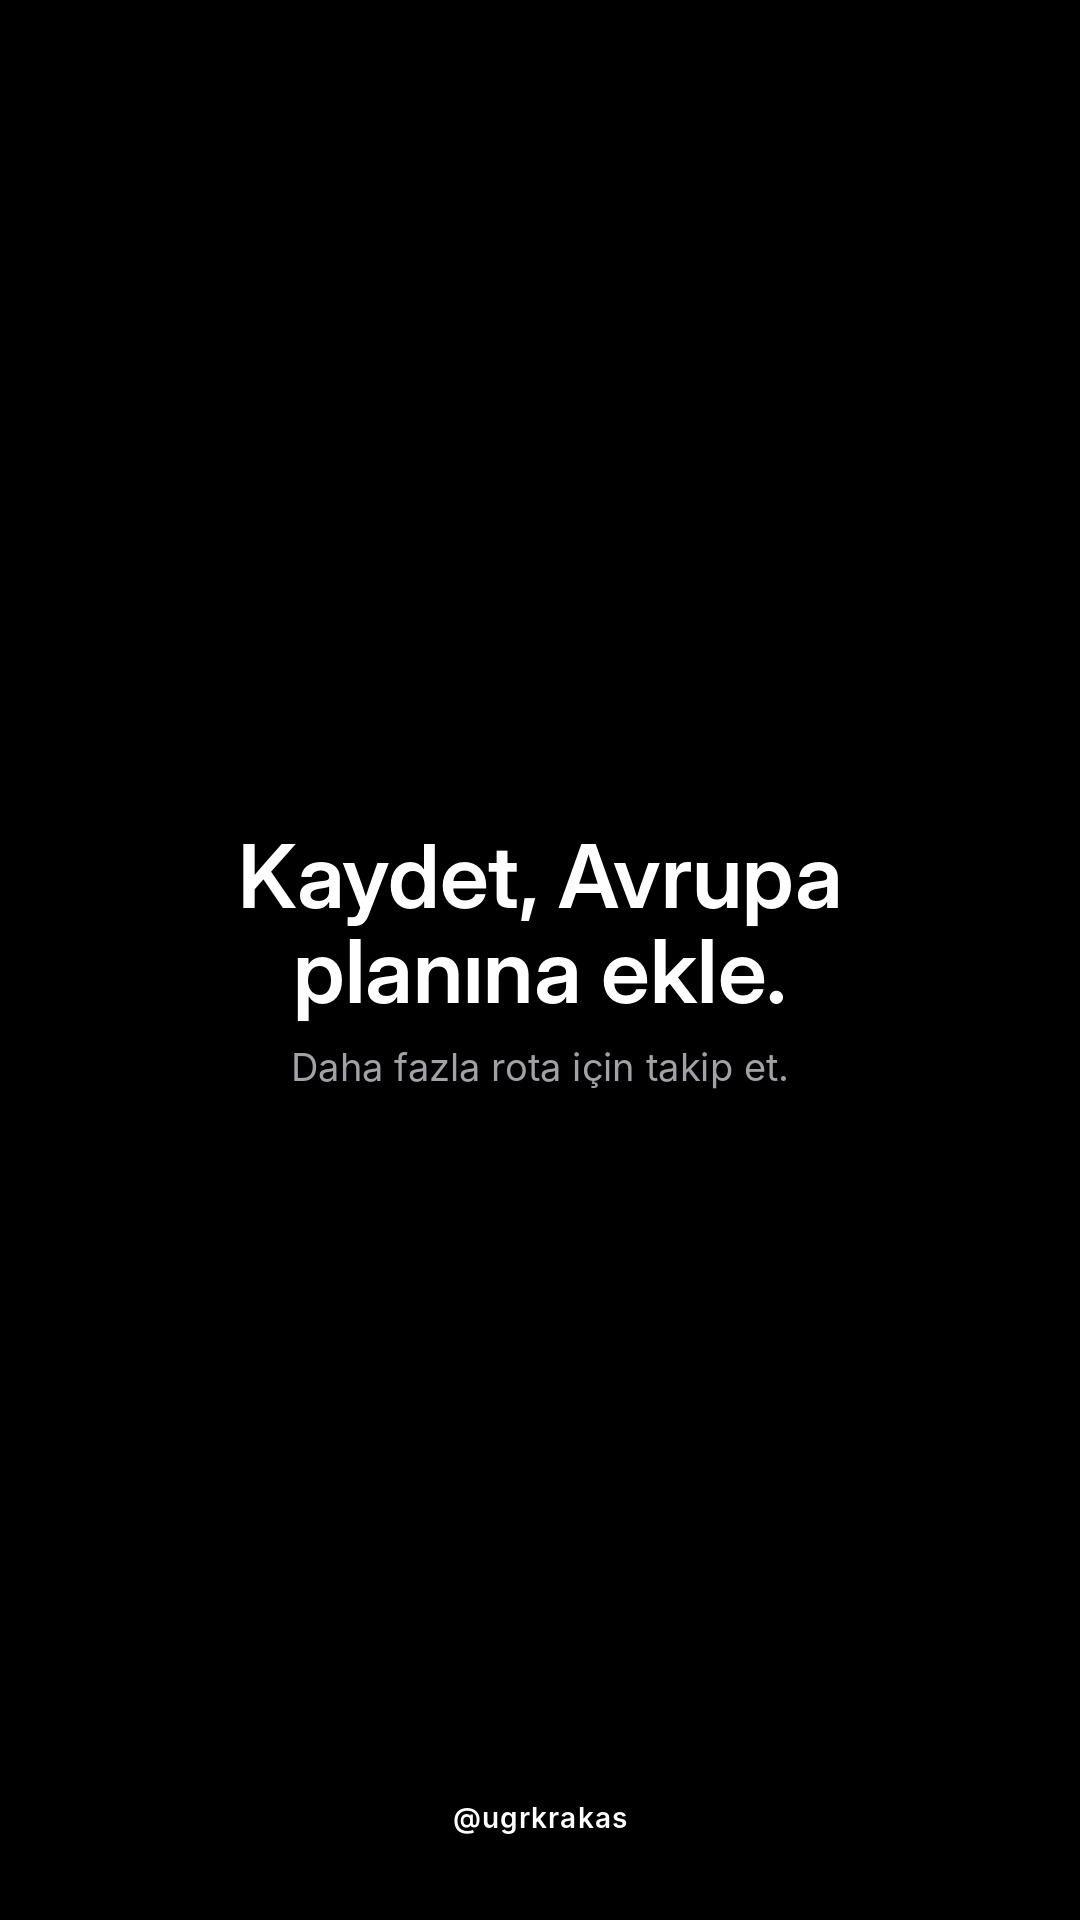
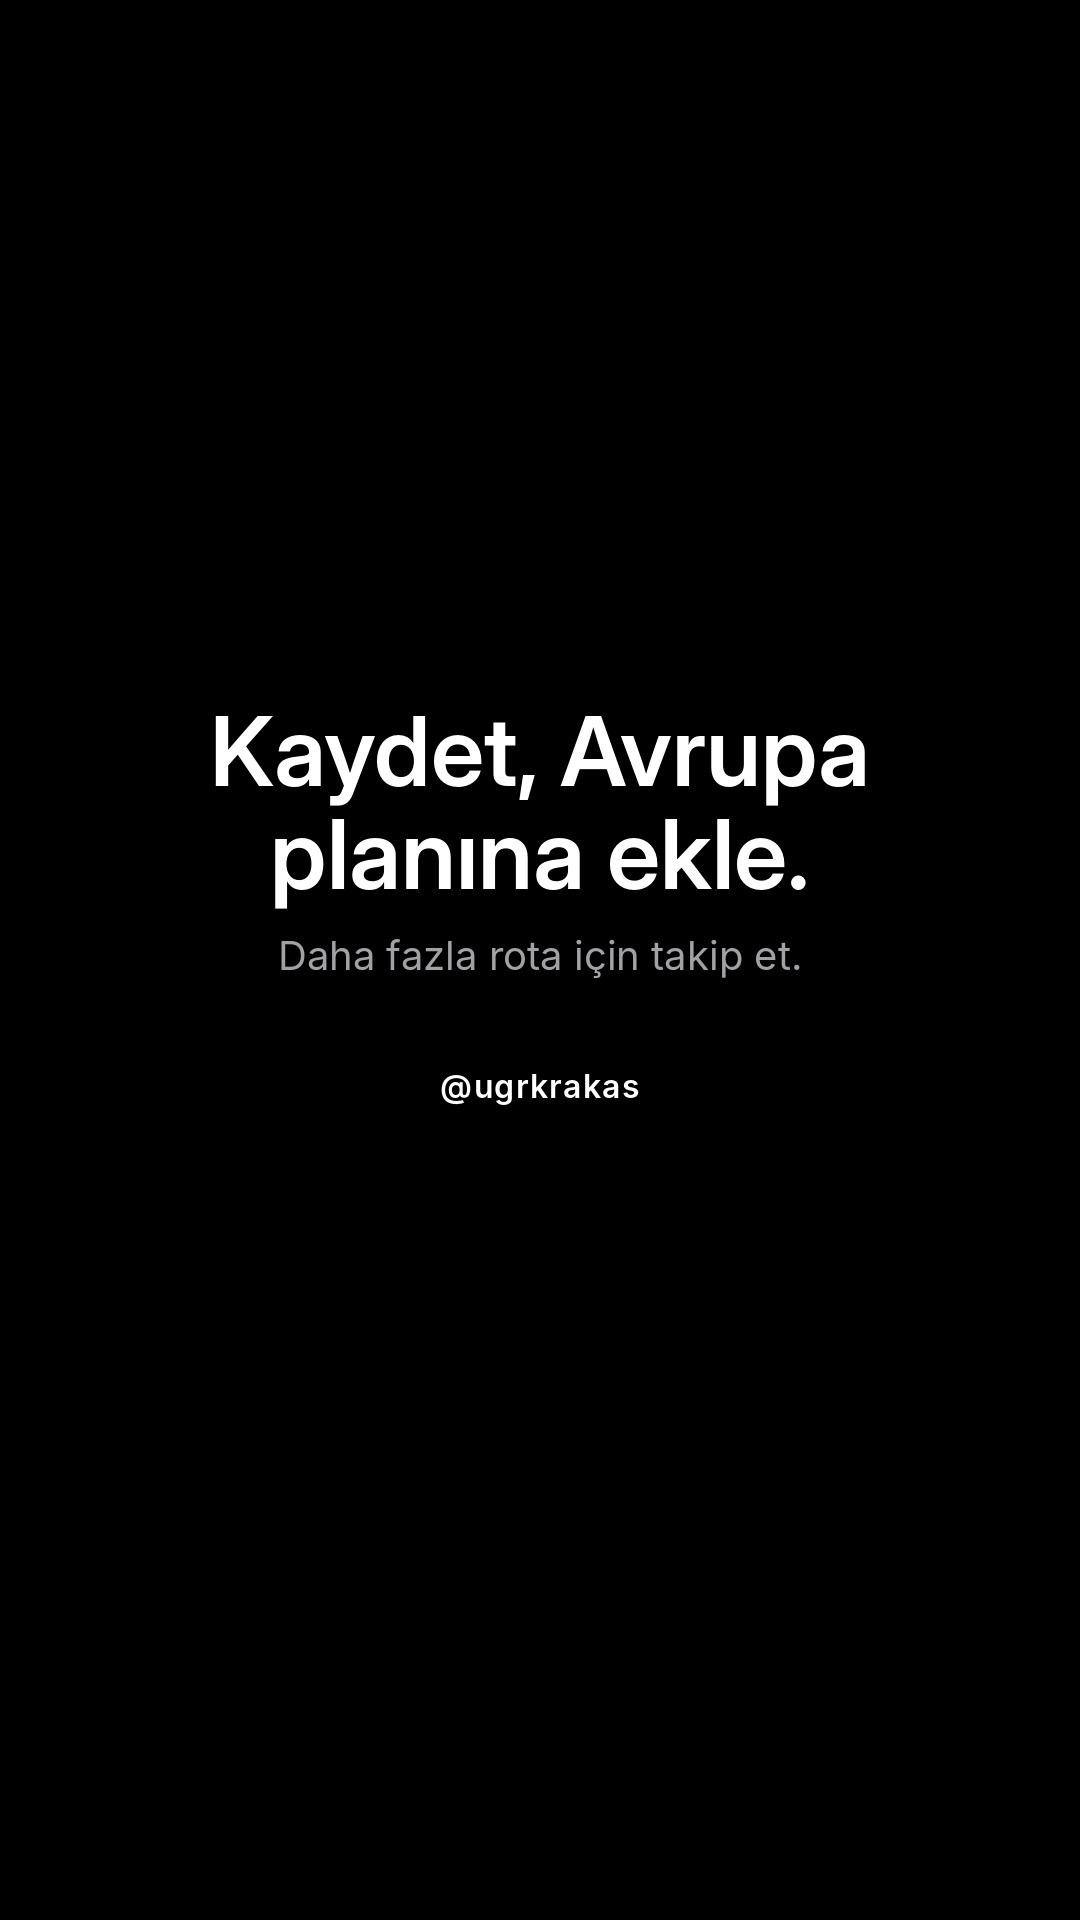
Dikey slaytlar: fotoğraf alanı sabit, altına detay kartı (nerede/ne zaman/ipucu)
Claude-Session: https://claude.ai/code/session_01Vt7T2UibBZwA7LmH7N9LPv

Changed region(s): [[0.1833, 0.375, 0.825, 0.5938], [0.4278, 0.9375, 0.5806, 0.9688]]

diff --git a/araclar/dikey_carousel.py b/araclar/dikey_carousel.py
@@ -1,5 +1,9 @@
 #!/usr/bin/env python3
-"""Carousel slaytlarını 9:16 (1080x1920) üretir: uygulamadan fotoğraflı reels olarak paylaşmak için.
+"""Carousel slaytlarının 9:16 (1080x1920) hali: uygulamadan fotoğraflı reels olarak paylaşmak için.
+
+Dikey ekranda fotoğraflar aşırı uzamasın diye fotoğraf alanı sabit tutulur, altına
+"detay" maddeleri (nerede, ne zaman, ipucu) gelir. Alt ~350 px, Instagram'ın reels
+arayüzü (açıklama, düğmeler) için boş bırakılır.
 
   python3 araclar/dikey_carousel.py icerik/<slug>.json   ->  carousel-dikey/<slug>/01.jpg ...
 """
@@ -7,18 +11,111 @@ import json
 import sys
 from pathlib import Path
 
+from PIL import Image, ImageDraw
+
 sys.path.insert(0, str(Path(__file__).parent))
 import uret  # noqa: E402
+from uret import (BASLIK, BEYAZ, GOVDE, IKINCIL, KOK, METIN, ZEMIN, birlestir, blok_yuksekligi,  # noqa: E402
+                  doldur, font, karartma, ust_yazi, yaz, yuvarlak_yapistir)
 
-uret.POST = uret.STORY  # tüm slayt düzenleri boyutu POST sabitinden alıyor
+W, H = 1080, 1920
+KENAR = 84
+GEN = W - 2 * KENAR
+FOTO_H = 760
+ALT_BOS = 360  # reels arayüzü
+
+
+def _foto(ad, boyut):
+    if isinstance(ad, dict):
+        return doldur(KOK / "kaynak" / ad["foto"], boyut, tuple(ad.get("odak", (0.5, 0.5))))
+    return doldur(KOK / "kaynak" / ad, boyut)
+
+
+def kapak(veri):
+    img = karartma(doldur(KOK / "kaynak" / veri["foto"], (W, H), (0.5, 0.45)), ust=0.4, alt=0.75)
+    k = Image.new("RGBA", (W, H), (0, 0, 0, 0))
+    ust_yazi(k, W, KENAR, 140, veri.get("konum", ""), BEYAZ)
+    bf, af = font(BASLIK, 104), font(GOVDE, 40)
+    bh = blok_yuksekligi(veri["baslik"], bf, GEN, 1.08)
+    ah = blok_yuksekligi(veri.get("alt_baslik", ""), af, GEN, 1.35) if veri.get("alt_baslik") else 0
+    y = H - ALT_BOS - 40 - ah - 30 - bh
+    y = yaz(k, (KENAR, y), veri["baslik"], bf, BEYAZ, GEN, 1.08) + 30
+    if ah:
+        yaz(k, (KENAR, y), veri["alt_baslik"], af, BEYAZ, GEN, 1.35, seffaflik=215)
+    return birlestir(img, k)
+
+
+def detay_karti(k, img, y, maddeler):
+    """Beyaz yuvarlak kart içinde madde işaretli detaylar."""
+    f = font(GOVDE, 36)
+    satir_h = []
+    for m in maddeler:
+        satir_h.append(blok_yuksekligi(m, f, GEN - 120, 1.35))
+    ic = 48
+    kart_h = ic * 2 + sum(satir_h) + 26 * (len(maddeler) - 1)
+    ImageDraw.Draw(img).rounded_rectangle((KENAR, y, W - KENAR, y + kart_h), radius=36, fill=BEYAZ)
+    c = ImageDraw.Draw(k)
+    yy = y + ic
+    for m, sh in zip(maddeler, satir_h):
+        c.ellipse((KENAR + 48, yy + 17, KENAR + 60, yy + 29), fill=METIN + (255,))
+        yaz(k, (KENAR + 84, yy), m, f, METIN, GEN - 120, 1.35)
+        yy += sh + 26
+    return y + kart_h
+
+
+def icerik(slayt, sira, konum):
+    img = Image.new("RGB", (W, H), ZEMIN)
+    k = Image.new("RGBA", (W, H), (0, 0, 0, 0))
+    ust_yazi(k, W, KENAR, 140, f"{sira:02d}  ·  {konum}" if konum else f"{sira:02d}", IKINCIL, 255)
+    y = 230
+    y = yaz(k, (KENAR, y), slayt["baslik"], font(BASLIK, 72), METIN, GEN, 1.1) + 24
+    y = yaz(k, (KENAR, y), slayt["metin"], font(GOVDE, 36), IKINCIL, GEN, 1.42) + 44
+    fotolar = slayt.get("fotolar") or ([slayt["foto"]] if slayt.get("foto") else [])
+    fh = min(FOTO_H, H - ALT_BOS - y - (380 if slayt.get("detay") else 40))
+    ara = 16
+    if len(fotolar) >= 3:
+        sol = int((GEN - ara) * 0.6)
+        sag = GEN - ara - sol
+        kh = (fh - ara) // 2
+        yuvarlak_yapistir(img, _foto(fotolar[0], (sol, fh)), (KENAR, y))
+        yuvarlak_yapistir(img, _foto(fotolar[1], (sag, kh)), (KENAR + sol + ara, y))
+        yuvarlak_yapistir(img, _foto(fotolar[2], (sag, fh - kh - ara)), (KENAR + sol + ara, y + kh + ara))
+    elif len(fotolar) == 2:
+        yarim = (GEN - ara) // 2
+        for i, f in enumerate(fotolar):
+            yuvarlak_yapistir(img, _foto(f, (yarim, fh)), (KENAR + i * (yarim + ara), y))
+    elif len(fotolar) == 1:
+        yuvarlak_yapistir(img, _foto(fotolar[0], (GEN, fh)), (KENAR, y), r=36)
+    if fotolar:
+        y += fh + 40
+    if slayt.get("detay"):
+        detay_karti(k, img, y, slayt["detay"])
+    return birlestir(img, k)
+
+
+def kapanis(veri):
+    img = Image.new("RGB", (W, H), (0, 0, 0))
+    k = Image.new("RGBA", (W, H), (0, 0, 0, 0))
+    bf, gf = font(BASLIK, 96), font(GOVDE, 40)
+    cta = veri.get("cta", "Kaydet, gidince aç.")
+    alt = veri.get("cta_alt", "Daha fazla rota ve durak için takip et.")
+    bh, gh = blok_yuksekligi(cta, bf, GEN, 1.08), blok_yuksekligi(alt, gf, GEN, 1.4)
+    y = (H - ALT_BOS - bh - 32 - gh) // 2 + 60
+    y = yaz(k, (KENAR, y), cta, bf, BEYAZ, GEN, 1.08, hiza="orta") + 32
+    yaz(k, (KENAR, y), alt, gf, (161, 161, 166), GEN, 1.4, hiza="orta")
+    uret.harfli(k, (KENAR, y + gh + 80), uret.HANDLE, font(uret.ARA, 32), BEYAZ, aralik=0.04,
+                hiza="orta", genislik=GEN, buyuk=False)
+    return birlestir(img, k)
+
 
 for yol in sys.argv[1:]:
     veri = json.loads(Path(yol).read_text(encoding="utf-8"))
     slug, sl = veri["slug"], veri["slaytlar"]
-    hedef = uret.KOK / "carousel-dikey" / slug
+    hedef = KOK / "carousel-dikey" / slug
+    for eski in hedef.glob("*.jpg"):
+        eski.unlink()
     toplam = len(sl) + 2
-    uret.kaydet(uret.kapak(veri), hedef / "01.jpg")
+    uret.kaydet(kapak(veri), hedef / "01.jpg")
     for i, s in enumerate(sl, start=1):
-        uret.kaydet(uret.icerik_slayti(s, i, toplam, veri.get("konum", "")), hedef / f"{i + 1:02d}.jpg")
-    uret.kaydet(uret.kapanis_slayti(veri), hedef / f"{toplam:02d}.jpg")
-    print(hedef.relative_to(uret.KOK))
+        uret.kaydet(icerik(s, i, veri.get("konum", "")), hedef / f"{i + 1:02d}.jpg")
+    uret.kaydet(kapanis(veri), hedef / f"{toplam:02d}.jpg")
